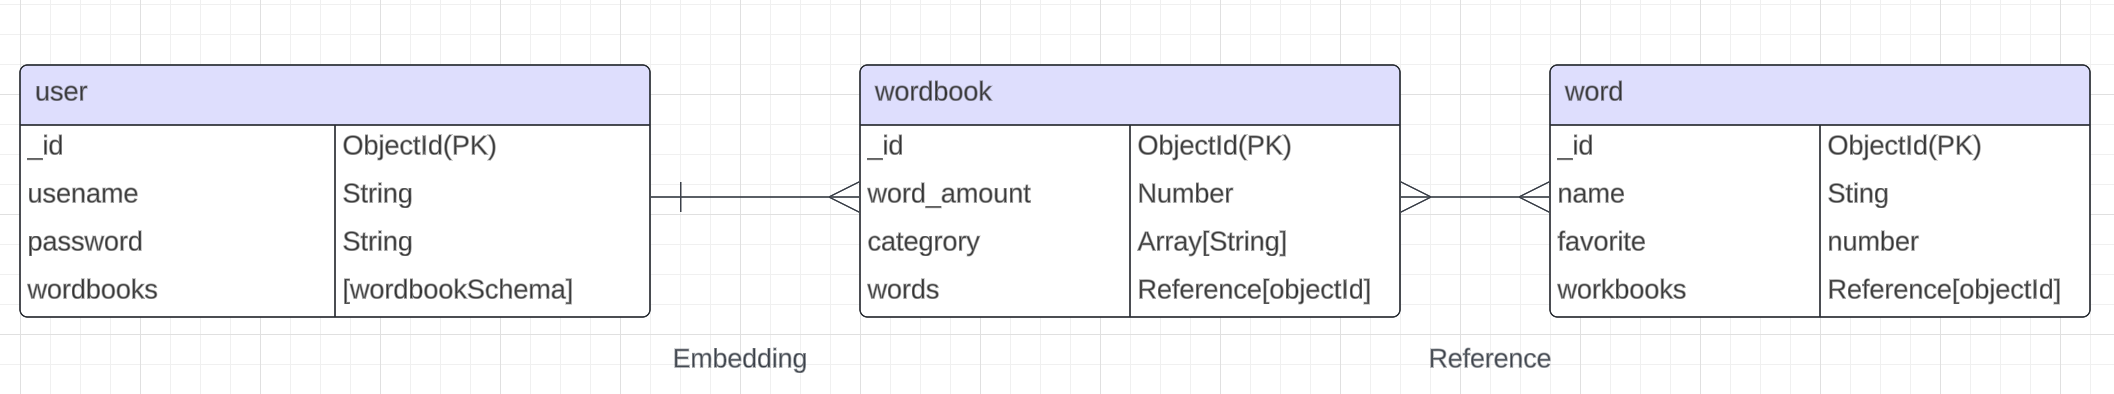
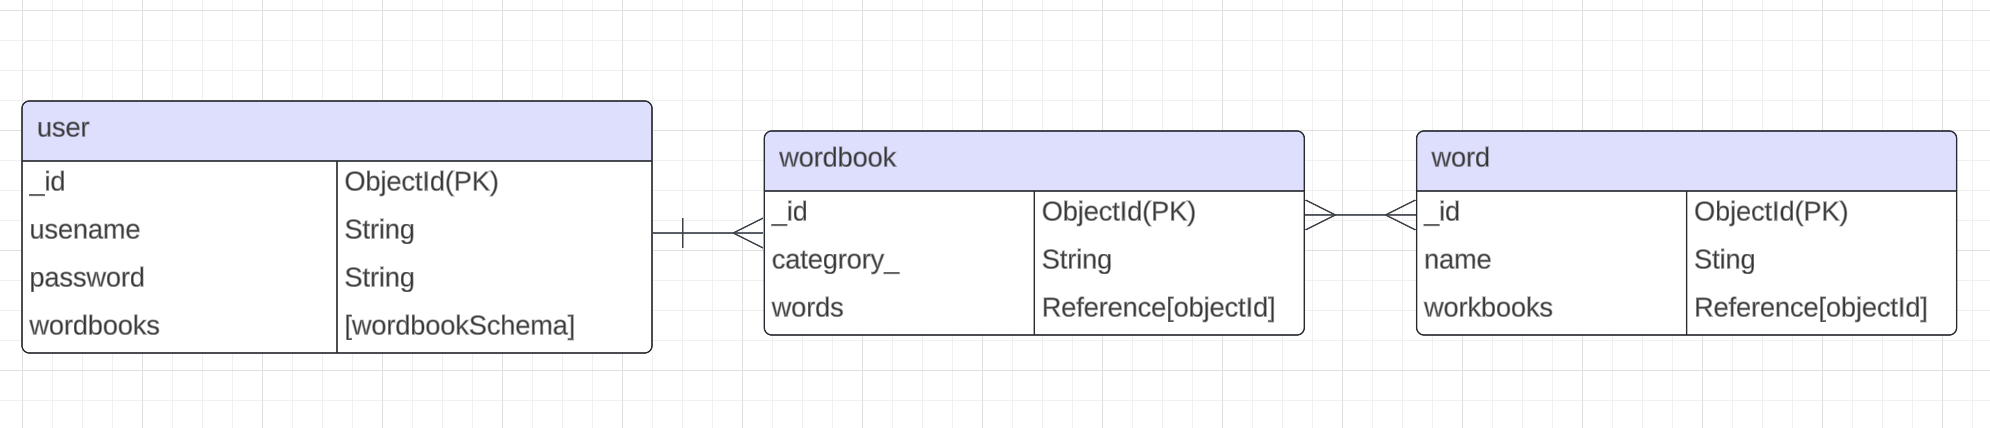
add some pics

diff --git a/controllers/words.js b/controllers/words.js
@@ -23,15 +23,13 @@ router.post("/", async (req, res) => {
     // 创建新的 Word 并保存
     const newWord = new Word({
       name: req.body.name,
-      favorite: 0,
     });
 
     // 在事务中保存新单词
     await newWord.save({ session });
 
-    // 更新 wordbook，添加新单词并更新 wordAmount
+    // 更新 wordbook
     wordbook.words.push(newWord._id);
-    wordbook.wordAmount += 1;
     await wordbook.save({ session });
 
     // 更新新单词的 wordbooks 数组，关联到 wordbook
@@ -41,7 +39,7 @@ router.post("/", async (req, res) => {
     // 确保 user 的 wordbooks 数组更新
     const wordbookIndex = user.wordbooks.findIndex(wb => wb._id.toString() === wordbook._id.toString());
     if (wordbookIndex !== -1) {
-      // 如果 `wordbook` 存在，更新其中的 `words` 和 `wordAmount`
+      // 如果 `wordbook` 存在，更新其中的 `words` 
       user.wordbooks[wordbookIndex] = wordbook;  // 更新 wordbook
     } else {
       // 如果 `wordbook` 不在 `user.wordbooks` 中，可以选择将其添加

diff --git a/controllers/wordbooks.js b/controllers/wordbooks.js
@@ -53,7 +53,6 @@ router.post("/", async (req, res) => {
 
     //Create a new Wordbook
     const wordbook = new Wordbook({
-      wordAmount: 0,
       category: wordbookName,
       words: [],
     });
@@ -177,7 +176,7 @@ router.get("/:wordbookId/list", async (req, res) => {
 
     // 获取当前页码，默认为第1页
     const page = parseInt(req.query.page) || 1;
-    const pageSize = 1; // 每页展示20个单词
+    const pageSize = 5; // 每页展示20个单词
     const skip = (page - 1) * pageSize; // 跳过的记录数
 
     // 获取当前页的 wordbook.words 数组切片

diff --git a/models/models.js b/models/models.js
@@ -3,11 +3,6 @@ import mongoose from 'mongoose';
 
 // Wordbook Schema  contains many words - 包含多个 Word 
 const wordbookSchema = mongoose.Schema({
-  wordAmount: {
-    type: Number,
-    required: true,
-    default:0
-  },
   category: {
     type: String,
     required: true,
@@ -37,11 +32,6 @@ const wordSchema = mongoose.Schema({
   name: {
     type: String,
     required: true,
-  },
-  favorite: {
-    type: Number,
-    required: true,
-    default:0
   },
   wordbooks:[{
     type:mongoose.Schema.Types.ObjectId,

diff --git a/嵌套和引用案例.md b/嵌套和引用案例.md
@@ -26,11 +26,6 @@ const mongoose = require('mongoose');
 
 // Wordbook Schema - 包含多个 Word
 const wordbookSchema = mongoose.Schema({
-  wordAmount: {
-    type: Number,
-    required: true,
-    default: 0
-  },
   category: {
     type: String,
     required: true,
@@ -100,7 +95,6 @@ const word1 = await Word.create({ name: 'apple', favorite: 1 });
 const word2 = await Word.create({ name: 'banana', favorite: 2 });
 
 const wordbook = await Wordbook.create({
-  wordAmount: 2,
   category: 'unfamiliar',
   words: [word1._id, word2._id],  // 添加多个词语到该词本
 });

diff --git a/Proposal.md b/Proposal.md
@@ -10,11 +10,16 @@ An English Vocabulary Learning App is designed to help users expand and improve 
 
 **Initial Landing View**
 
-![image]()
+![image](https://github.com/kevinsubmit/Vocabulary-Learning-App/blob/main/utils/imgs/img1.png)
+
+![image](https://github.com/kevinsubmit/Vocabulary-Learning-App/blob/main/utils/imgs/img4.png)
 
 **Results View**
 
-![image]()
+
+![image](https://github.com/kevinsubmit/Vocabulary-Learning-App/blob/main/utils/imgs/img2.png)
+
+![image](https://github.com/kevinsubmit/Vocabulary-Learning-App/blob/main/utils/imgs/img3.png)
 
 ## User Stories
 
